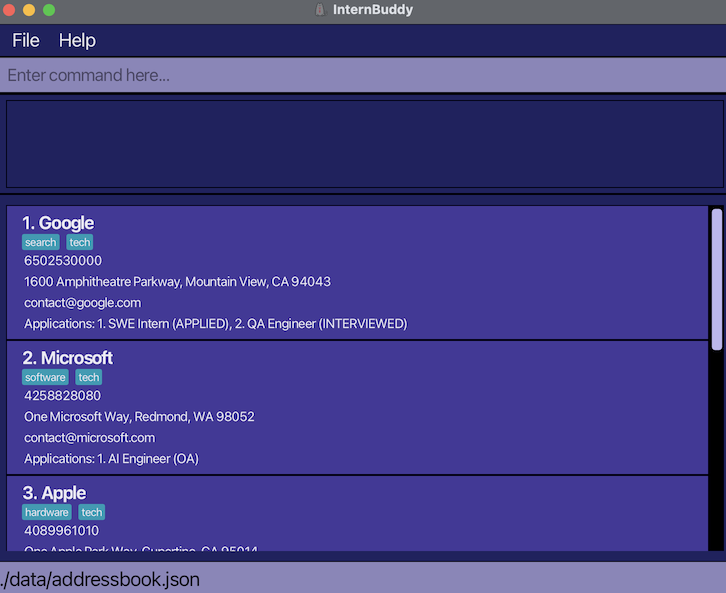
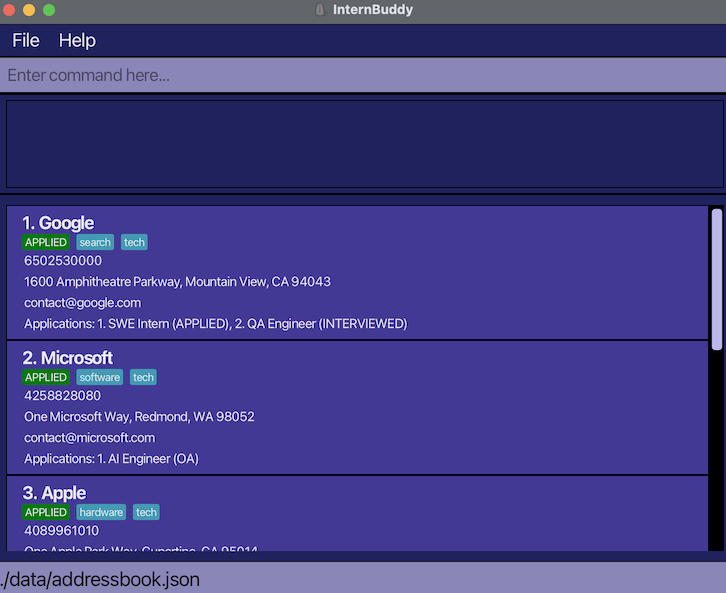
Add AppStatus in CompanyCard and update Ui img

Changed region(s): [[0.0303, 0.6071, 0.2121, 0.6678], [0.0303, 0.8499, 0.2424, 0.8803], [0.0303, 0.3946, 0.2121, 0.425]]

diff --git a/src/main/java/seedu/internbuddy/ui/CompanyCard.java b/src/main/java/seedu/internbuddy/ui/CompanyCard.java
@@ -45,6 +45,8 @@ public class CompanyCard extends UiPart<Region> {
     @FXML
     private Label application;
     @FXML
+    private Label status;
+    @FXML
     private FlowPane tags;
 
     /**
@@ -56,6 +58,15 @@ public class CompanyCard extends UiPart<Region> {
         id.setText(displayedIndex + ". ");
         name.setText(company.getName().fullName);
         email.setText(company.getEmail().value);
+        status.setText(company.getStatus().value);
+
+        if ("INTERESTED".equals(status.getText())) {
+            status.setStyle("-fx-background-color: purple;");
+        } else if ("APPLIED".equals(status.getText())) {
+            status.setStyle("-fx-background-color: green;");
+        } else if ("CLOSED".equals(status.getText())) {
+            status.setStyle("-fx-background-color: #db0303;");
+        }
 
         /* phone number and address are optional */
         setOptionals();
@@ -66,6 +77,8 @@ public class CompanyCard extends UiPart<Region> {
                 : "Applications: " + IntStream.range(0, applications.size())
                     .mapToObj(i -> (i + 1) + ". " + applications.get(i))
                     .collect(Collectors.joining(", ")));
+
+        tags.getChildren().add(status);
 
         company.getTags().stream()
                 .sorted(Comparator.comparing(tag -> tag.tagName))
